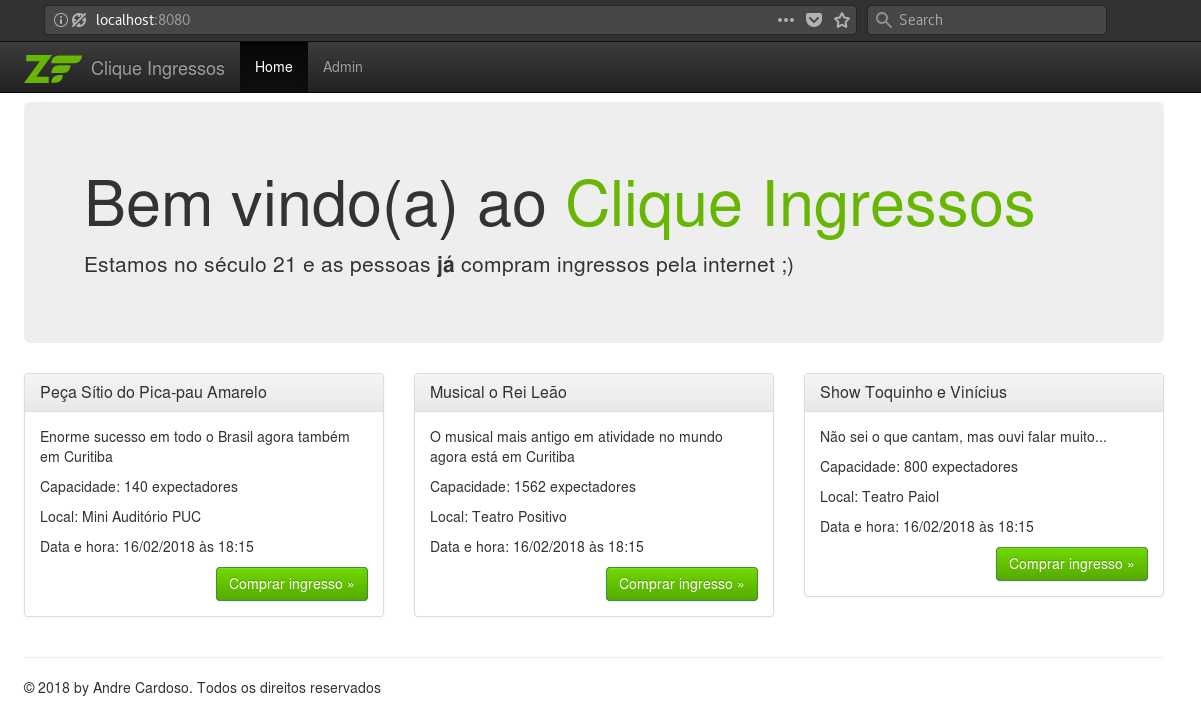
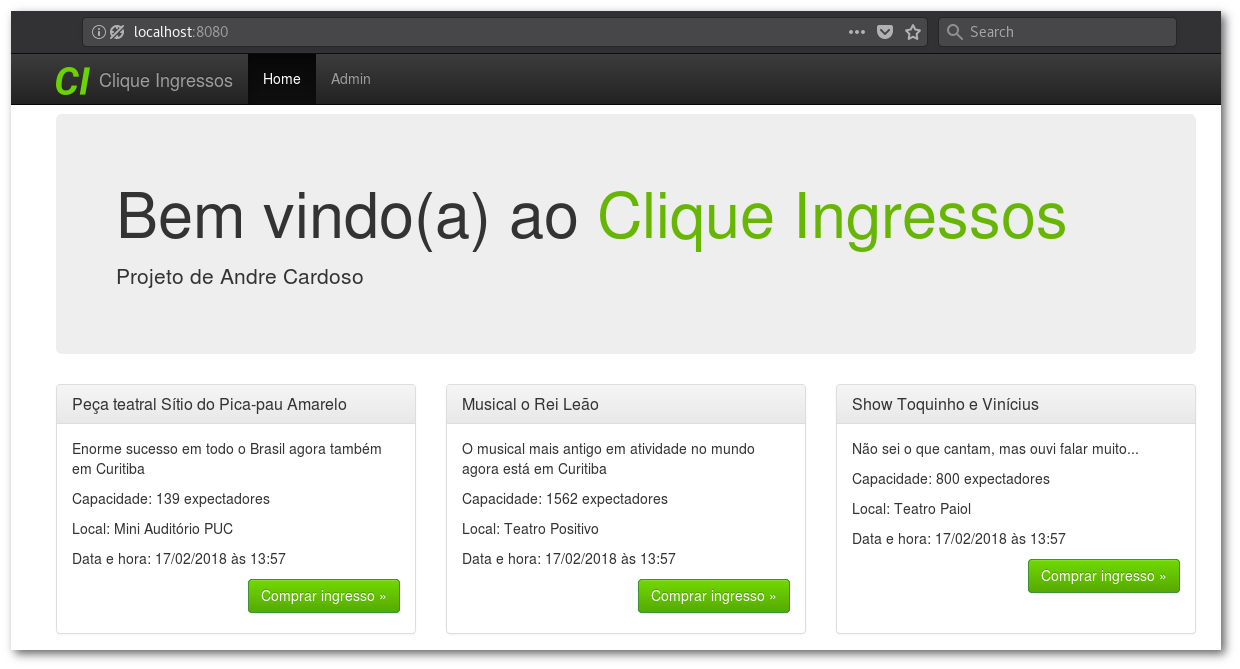
Improved visual elements

Changed region(s): [[0.0, 0.0, 1.0, 0.9865], [0.0616, 0.2392, 0.8626, 0.4484], [0.3389, 0.5381, 0.647, 0.9268]]

diff --git a/public/css/app.css b/public/css/app.css
@@ -61,3 +61,6 @@
     width: 72%;
     z-index: 9999;
 }
+.panel-default {
+    height: 250px;
+}
